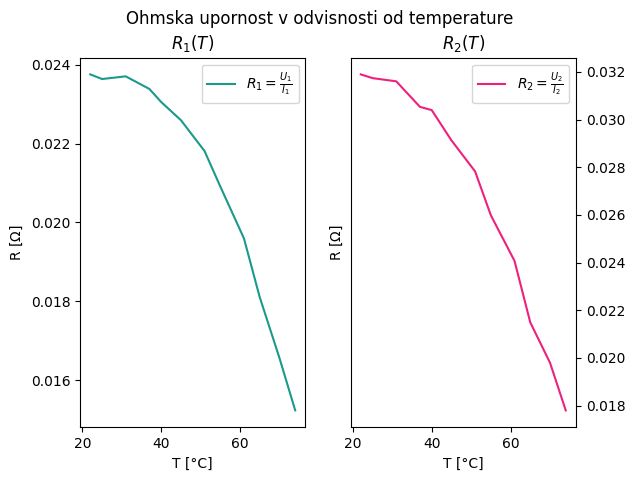
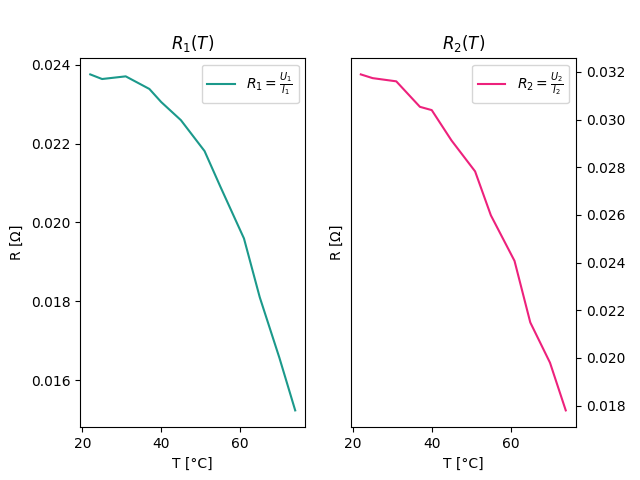
Fixed dual R(T) plot (removed suptitle)

Changed region(s): [[0.1875, 0.0312, 0.8125, 0.0625]]

diff --git a/Hall/main_hall.py b/Hall/main_hall.py
@@ -77,7 +77,7 @@ plt.show()
 fig, (ax1, ax2) = plt.subplots(1, 2)
 R1 = U1/I1
 R2 = U2/I2
-plt.suptitle("Ohmska upornost v odvisnosti od temperature")
+# plt.suptitle("Ohmska upornost v odvisnosti od temperature")
 ax1.plot(T, R1, color="#1B998B", label=r"$R_1 = \frac{U_1}{I_1}$")
 ax1.set_title(r"$R_1(T)$")
 ax1.set_xlabel(r"T [°C]")
